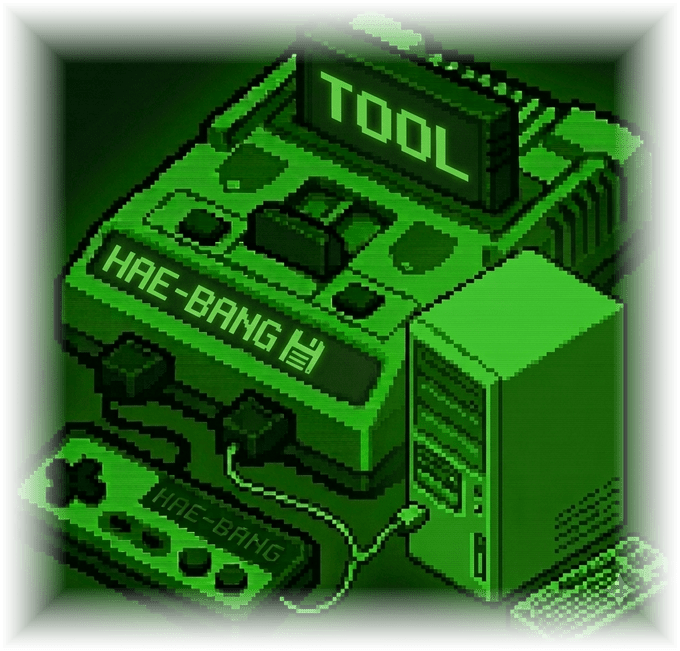
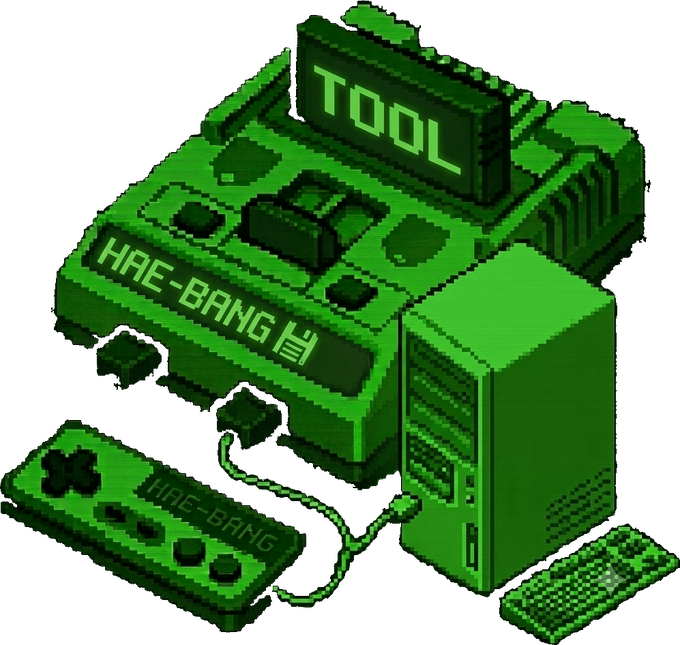
히어로 아이콘을 완전 투명 누끼로 교체
받은 누끼 파일을 그대로 쓰지 못하는 문제가 두 가지 있어 고쳐 넣었다.
 - HB_RETRO: 체크무늬가 반투명 회색으로 구워져 있었다. 오브젝트 초록과 섞여
   '채도 낮은 초록빛 회색'이라 무채색 판정으로는 안 걸린다 — 채도로 걸러내고,
   밝은 연두 글자(RETRO·HAE-BANG)는 밝기로 지켜냈다. 하단 배너도 잘라냈다.
 - HB_TOOL: 누끼가 검정을 배경으로 오해해 십자키·버튼·아웃라인까지 뚫려 있었다.
   누끼 알파는 실루엣으로만 쓰고 색은 배경 있는 원본에서 가져와 복원했다.
   내부 구멍은 작은 것만 메운다(케이블 고리 안쪽은 배경이라 남겨야 한다).

diff --git a/docs/index.html b/docs/index.html
@@ -88,10 +88,8 @@
      아이콘은 정사각이라 마스크 없이 border-radius 로 잘라 같은 띠를 얹는다. */
   .hero-brandmark{display:flex; align-items:center; justify-content:center; gap:17px; margin-bottom:24px;
     animation:logoIn .85s cubic-bezier(.2,.85,.25,1) both}
-  /* 아이콘은 실물(게임기)만 남기고 가장자리를 투명하게 페이드해 둔 PNG —
-     테두리 프레임·배너가 없고 사각 경계도 없어 배경에 그대로 얹힌다.
-     글로우가 이미 이미지에 들어 있어 CSS 그림자는 옅게만 준다.
-     샤인 띠도 알파를 마스크로 써서 실물 모양대로만 지나가게 한다. */
+  /* 아이콘은 배경을 완전히 지운 누끼 PNG(실물만). 샤인 띠도 알파를 마스크로 써서
+     게임기 실루엣대로만 지나간다. 글로우는 CSS 그림자로 준다. */
   .hbr-ico{position:relative; display:inline-block; flex:0 0 auto}
   .hbr-ico img{display:block; width:136px; height:auto;
     filter:drop-shadow(0 8px 22px rgba(34,197,94,.30))}

diff --git a/docs/haebang.html b/docs/haebang.html
@@ -104,8 +104,8 @@
         같은 초록 계열 그라데이션으로 밝게 올렸다. */
   .hero-logo{display:flex; align-items:center; gap:18px; margin-bottom:24px;
     animation:logoIn .85s cubic-bezier(.2,.85,.25,1) both}
-  /* 실물만 남기고 가장자리를 투명 페이드한 PNG — 사각 경계·프레임이 없다.
-     샤인 띠는 알파를 마스크로 써서 실물 모양대로만 지나간다. */
+  /* 배경을 완전히 지운 누끼 PNG(실물만). 샤인 띠는 알파를 마스크로 써서
+     실루엣대로만 지나간다. */
   .hbt-ico{position:relative; display:inline-block; flex:0 0 auto}
   .hbt-ico img{display:block; width:min(124px,26vw); height:auto;
     filter:drop-shadow(0 8px 20px rgba(34,197,94,.28))}
